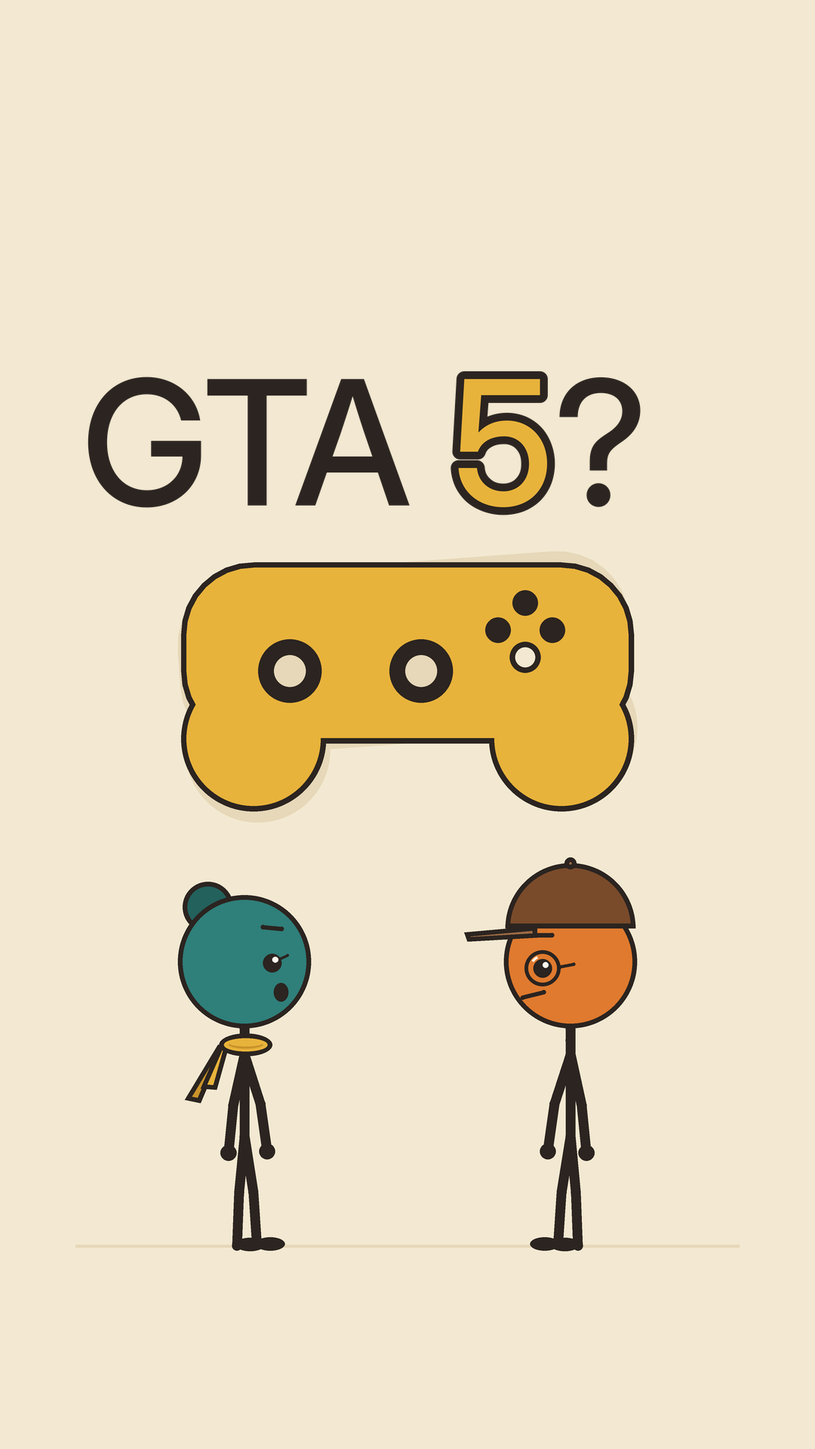
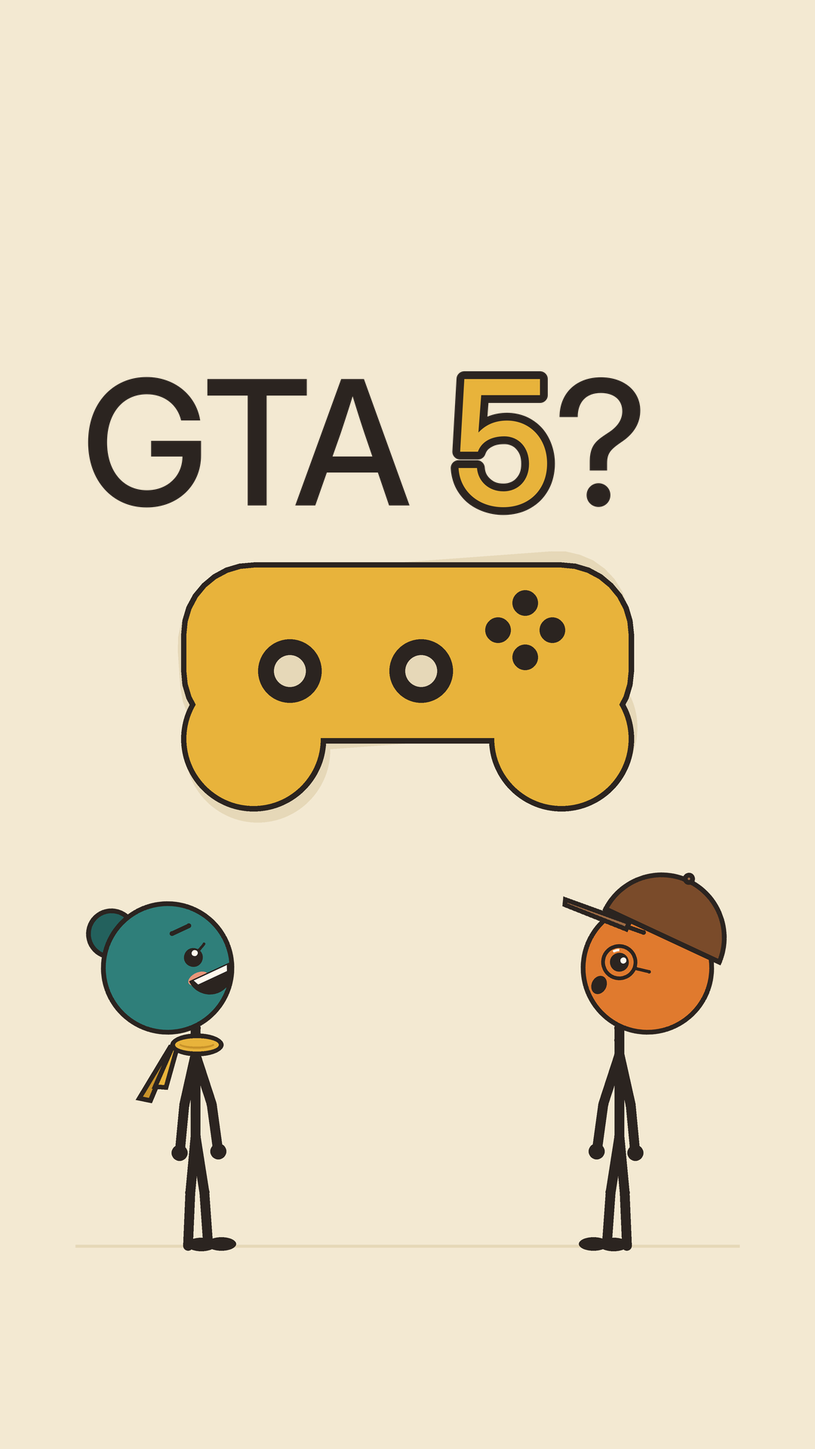
Perfil emocional en la ficha de cada video: plantilla, regla y control en el validador (regla del dueño)
Claude-Session: https://claude.ai/code/session_01518ZoRVZH1wGrNexzG8g5b

Changed region(s): [[0.5806, 0.5938, 0.9167, 0.875], [0.0917, 0.5938, 0.3972, 0.875], [0.6111, 0.4375, 0.6722, 0.4688]]

diff --git a/video-studio/herramientas/palitos.py b/video-studio/herramientas/palitos.py
@@ -25,6 +25,10 @@ Versiones:
                       Nuevo `giro_objeto` (grados; 0 por defecto) para el movimiento secundario del objeto. Gráfico
                       `mando()` (mando genérico, sin logotipos ni símbolos; las dos palancas a la misma altura)
                       y `calendario_de_mano()`.
+    1.3 (2026-11-23)  inclinación de cabeza: `cabeza_giro` en `dibujar` y `giro` en `cabeza` (grados; 0 por defecto, y con 0
+                      todo se dibuja igual que antes). La cabeza gira como un bloque (cara, rodete, gorra, lentes)
+                      alrededor de la base del cuello; la bufanda y el cuerpo no. Sirve para mirar arriba o abajo
+                      (hasta ±25 grados, variación permitida en las fichas). No cambia ningún rasgo.
 """
 import argparse
 import math
@@ -33,7 +37,7 @@ from pathlib import Path
 
 from PIL import Image, ImageDraw, ImageFont
 
-VERSION = "1.2"  # 1.0: diseño aprobado (2026-11-21) · 1.1: espejo · 1.2: objetos de mano por nombre (control, calendario)
+VERSION = "1.3"  # 1.0: diseño aprobado (2026-11-21) · 1.1: espejo · 1.2: objetos de mano · 1.3: inclinación de cabeza
 SS = 3  # supermuestreo: se dibuja 3 veces más grande y se reduce (Pillow no suaviza las líneas)
 
 # ---------------------------------------------------------------- paleta del canal (años 70, papel crema)
@@ -462,8 +466,28 @@ def objeto_de_mano(lz, pl, nombre, mano, pose, giro=0.0):
 
 
 # ---------------------------------------------------------------- cabeza (sirve sola para primeros planos)
-def cabeza(lz, pid, cx, cy, radio, expresion="feliz", vista="frente", mira=1, espejo=False):
-    """Dibuja solo la cabeza con sus accesorios, centrada en (cx, cy) y con ese radio en píxeles."""
+class _Capa:
+    """Lienzo transparente del mismo trato que Lienzo (tiene .d), para dibujar una pieza aparte y girarla."""
+
+    def __init__(self, lado_ss):
+        self.img = Image.new("RGBA", (lado_ss, lado_ss), (0, 0, 0, 0))
+        self.d = ImageDraw.Draw(self.img)
+
+
+def cabeza(lz, pid, cx, cy, radio, expresion="feliz", vista="frente", mira=1, espejo=False, giro=0.0):
+    """Dibuja solo la cabeza con sus accesorios, centrada en (cx, cy) y con ese radio en píxeles.
+
+    giro (grados, 0 por defecto): inclina la cabeza entera (cara, rodete, gorra y lentes, como un bloque) alrededor de
+    la base del cuello, el punto (cx, cy + radio). Positivo = levanta la cara hacia donde mira (en perfil, hacia `mira`;
+    de frente, hacia la derecha del cuadro, o la izquierda con espejo). Con 0 se dibuja exactamente como antes."""
+    if giro:
+        medio = int(math.ceil(3.2 * radio))                     # la capa cubre la cabeza girada con sus accesorios
+        capa = _Capa(2 * medio * SS)
+        cabeza(capa, pid, medio, medio, radio, expresion, vista, mira, espejo, 0.0)
+        sentido = (mira if vista == "perfil" else 1) * (-1 if espejo else 1)
+        girada = capa.img.rotate(giro * sentido, resample=Image.BICUBIC, center=(medio * SS, (medio + radio) * SS))
+        lz.img.paste(girada, (int(round((cx - medio) * SS)), int(round((cy - medio) * SS))), girada)
+        return
     pj = PERSONAJES[pid]
     pc = Pluma(lz, cx, cy, radio, espejo)
     if "rodete" in pj["accesorios"]:
@@ -477,7 +501,7 @@ def cabeza(lz, pid, cx, cy, radio, expresion="feliz", vista="frente", mira=1, es
 
 # ---------------------------------------------------------------- personaje completo
 def dibujar(lz, pid, x, suelo, alto, pose="parado", expresion="feliz", vista="frente", mira=1, viento=0.0,
-            objeto=True, espejo=False, giro_objeto=0.0):
+            objeto=True, espejo=False, giro_objeto=0.0, cabeza_giro=0.0):
     """Dibuja a Tin o Tan con los pies en (x, suelo) y una altura total de `alto` píxeles.
 
     mira: 1 mira a la derecha, -1 a la izquierda (solo en perfil). viento: puntas de la bufanda (-1 a 1).
@@ -487,6 +511,8 @@ def dibujar(lz, pid, x, suelo, alto, pose="parado", expresion="feliz", vista="fr
     objeto: True = el objeto icónico del personaje (el lápiz de Tin; Tan no tiene); False o None = ninguno; o el
     nombre de un objeto de mano ("lapiz", "control", "calendario"), que vale para los dos personajes.
     giro_objeto: grados que se suman al ángulo del objeto (movimiento secundario).
+    cabeza_giro: inclinación de la cabeza en grados (hasta ±25: variación permitida en las fichas); positivo = levanta
+    la cara para mirar hacia arriba. La bufanda y el cuerpo no giran. Con 0, todo igual que siempre.
     """
     if pid not in PERSONAJES:
         sys.exit(f"Personaje desconocido: {pid}. Hay: {', '.join(PERSONAJES)}")
@@ -531,7 +557,7 @@ def dibujar(lz, pid, x, suelo, alto, pose="parado", expresion="feliz", vista="fr
 
     if "bufanda" in pj["accesorios"]:
         bufanda(pl, vista, s, cuello_base[1] - 0.05, viento)
-    cabeza(lz, pid, x, suelo + cabeza_y * R, R, expresion, vista, s, espejo)
+    cabeza(lz, pid, x, suelo + cabeza_y * R, R, expresion, vista, s, espejo, cabeza_giro)
 
     # objeto icónico en la mano derecha (vista de frente) o en la de adelante (perfil)
     nombre = pj["objeto"] if objeto is True else (objeto if isinstance(objeto, str) else None)

diff --git a/video-studio/proyectos/2026-11-21_tin_y_tan_gta6/codigo/render.py b/video-studio/proyectos/2026-11-21_tin_y_tan_gta6/codigo/render.py
@@ -370,9 +370,11 @@ def mando_grande(lz, t):
         return 5 * math.sin(4 * math.pi * tt)
     for atras in (0.08, 0.04):
         palitos.mando(lz, cx, cy, ancho, ang(t - atras), relleno="papel_sombra", tinta="papel_sombra", detalles=False)
-    # el latido se cuenta en fotogramas (6 de cada 15) para que no dependa del redondeo de t
+    # el latido se cuenta en fotogramas (6 de cada 15) para que no dependa del redondeo de t. Va en la segunda mitad
+    # del pulso (fotogramas 8 a 13: 0,27 a 0,47 s): en el fotograma 0, que es la portada, los cuatro botones se ven
+    # iguales, y el fotograma 855 (= 0) también.
     f = int(round(t * FPS))
-    palitos.mando(lz, cx, cy, ancho, ang(t), boton_pulsado=(f % 15) < 6)
+    palitos.mando(lz, cx, cy, ancho, ang(t), boton_pulsado=8 <= (f % 15) < 14)
     return cx, cy
 
 
@@ -481,22 +483,26 @@ HOJA_G = dict(cx=0.5 * W, y_top=0.28 * H, ancho=0.80 * W, alto=1000)       # hoj
 HOJA_Z = dict(cx=0.5 * W, y_top=ZONA_G0, ancho=800, alto=0.485 * H - ZONA_G0 - 28)
 
 
-ALTO_PORTADA = 487.0      # R = 88 px: caras de y 1135 a 1362, dentro de la zona útil de portada (y 380-1440)
+ALTO_PORTADA = 487.0      # R = 88 px: caras dentro de la zona útil de portada (y 380-1440)
+X_PORTADA = (0.24 * W, 0.76 * W)     # más separados que en el resto del video (30 % y 70 %): la mirada sube en diagonal
+GIRO_PORTADA = 25.0       # grados
 
 
 def portada(lz, t):
     """Tomas 1 y 13: el primer segundo ES la portada (ENTREGA_YOUTUBE.md, «Portada de los Shorts»). Texto «GTA 5?» entre
     y 400 y 700 (capa de texto), el mando en el centro (y 720-1100) y, debajo, Tan (izquierda) y Tin (derecha) de
-    perfil, mirando hacia el mando, con sorpresa y curiosidad; las caras quedan dentro de la zona útil (x 60-960,
+    perfil y con la cabeza inclinada hacia arriba, mirando el mando, con sorpresa (Tin) y sorpresa alegre (Tan); las caras quedan dentro de la zona útil (x 60-960,
     y 380-1440) y los cuerpos bajan hasta el suelo (y = 1651). Todo está completo en el fotograma 0; se mueve desde ahí
     (el mando retumba y los personajes rebotan al pulso). Sin empuje de cámara: escala 100 % en toda la toma, para que
     las cajas medidas en el fotograma 0 valgan todo el segundo y el último fotograma sea igual al primero."""
     suelo(lz)
     mando_grande(lz, t)
-    palitos.dibujar(lz, "tan", X_TAN, SUELO, ALTO_PORTADA * bote(t), pose="parado", expresion="sorpresa", vista="perfil",
-                    mira=1, viento=0.2 * math.sin(4 * math.pi * t))      # periódico: igual en 0 y en 28,5
-    palitos.dibujar(lz, "tin", X_TIN, SUELO, ALTO_PORTADA * bote(t, 0.5), pose="parado", expresion="curiosidad",
-                    vista="perfil", mira=-1, objeto=False)
+    # cabezas inclinadas 25 grados hacia arriba (el máximo de las fichas): miran al mando, que está encima y al centro
+    palitos.dibujar(lz, "tan", X_PORTADA[0], SUELO, ALTO_PORTADA * bote(t), pose="parado", expresion="eureka",
+                    vista="perfil", mira=1, viento=0.2 * math.sin(4 * math.pi * t),      # periódico: igual en 0 y en 28,5
+                    cabeza_giro=GIRO_PORTADA)
+    palitos.dibujar(lz, "tin", X_PORTADA[1], SUELO, ALTO_PORTADA * bote(t, 0.5), pose="parado", expresion="sorpresa",
+                    vista="perfil", mira=-1, objeto=False, cabeza_giro=GIRO_PORTADA)
     return 1.0, CENTRO
 
 

diff --git a/video-studio/proyectos/2026-11-21_tin_y_tan_gta6/codigo/audio.py b/video-studio/proyectos/2026-11-21_tin_y_tan_gta6/codigo/audio.py
@@ -42,7 +42,7 @@ C_4745, C_4748, C_63, C_4811 = (11.15, 12.9), (15.6, 18.0), (17.75, 18.8), (21.4
 
 # ---------------------------------------------------------------- golpes de la sección 13: (segundo, sonido, a qué va atado)
 EVENTOS = [(0.0, "thunk", "arranque, toma 1 (y empalme del bucle)"), (0.0, "zumbido", "vibración del mando, toma 1")]
-EVENTOS += [(0.5, "boton", "latido del botón, toma 1")]
+EVENTOS += [(t, "boton", "latido del botón, toma 1 (segunda mitad del pulso)") for t in (8 / 30, 23 / 30)]
 EVENTOS += [(t, "clic_borron", f"corte con borrón en {t}") for t in (1.0, 2.0, 9.0, 17.5, 25.5, 27.5)]
 EVENTOS += [(t, "clic", f"corte seco en {t}") for t in (5.0, 15.0, 21.0, 23.5)]
 EVENTOS += [(3.8, "hoja", "vuelta de hoja, toma 3")]
@@ -62,7 +62,7 @@ EVENTOS += [(LLEGA_4811, "ding", "llegada a 4,811 (primer fotograma con el valor
 EVENTOS += [(6.6, "pop", "la fecha entra en la hoja, toma 4")]
 EVENTOS += [(t, "pop_grave", "latido del bloque 13, toma 12") for t in (26.0, 26.5, 27.0)]
 EVENTOS += [(27.5, "whoosh", "vuelve el plano de la portada, toma 13 (27,5 a 28,3)")]
-EVENTOS += [(t, "boton", "latido del botón, toma 13") for t in (27.5, 28.0)]
+EVENTOS += [(t, "boton", "latido del botón, toma 13 (segunda mitad del pulso)") for t in (27.5 + 8 / 30, 28.0 + 8 / 30)]
 # El thunk de 28,5 es el del segundo 0,0 de la vuelta siguiente: el video dura 28,5 s justos y no se duplica.
 EVENTOS.sort(key=lambda e: e[0])
 

diff --git a/video-studio/herramientas/validar_prompt.py b/video-studio/herramientas/validar_prompt.py
@@ -135,6 +135,15 @@ def main():
     texto = re.sub(r"<!--.*?-->", "", crudo, flags=re.S)
     errores, avisos = [], []
 
+    # Perfil emocional (regla del dueño, 2026-11-23): va en la ficha de cada video.
+    perfil = ruta.parent / "perfil_emocional.md"
+    if not perfil.exists():
+        avisos.append("Falta 02_prompt/perfil_emocional.md (emoción buscada con cada elemento y cómo acerca al "
+                      "objetivo). Plantilla: plantillas/proyecto/02_prompt/perfil_emocional.md.")
+    else:
+        cuerpo = re.sub(r"<!--.*?-->", "", perfil.read_text(encoding="utf8"), flags=re.S)
+        if re.search(r"\[[^\]\n]*\]", cuerpo):
+            errores.append("perfil_emocional.md tiene campos sin llenar (corchetes).")
     if re.search(r"\[[^\]\n]*\]", re.sub(r"\[[ xX]\]", "", texto)):
         pendientes = sorted(set(re.findall(r"\[[^\]\n]*\]", texto)))[:5]
         errores.append("Quedan campos de plantilla sin llenar: " + ", ".join(pendientes))

diff --git a/video-studio/proyectos/2026-11-21_tin_y_tan_gta6/02_prompt/prompt.md b/video-studio/proyectos/2026-11-21_tin_y_tan_gta6/02_prompt/prompt.md
@@ -32,7 +32,7 @@ Los tiempos son del video final y de la voz real (05_audio/linea_de_tiempo_voz.m
 | @tan | Abre el video con la pregunta nostálgica y con el mando en la mano; reacciona a cada dato (una reacción por dato), pregunta cuánto fue la espera y dice «Wow, that long?». Lado izquierdo del cuadro con `espejo=True` (en el centro cuando está sola). | base de su ficha (rodete y bufanda mostaza); objeto de mano `control` en la toma 2 | personajes/tan/referencias/principal_tin_y_tan.png |
 | @tin | Hace la cuenta paso a paso y da el remate. Lado derecho del cuadro, sin espejo; su lápiz en la toma 4 (el motivo del canal), objeto de mano `calendario` en la toma 12 y la mano vacía en la toma 10. | base de su ficha (gorra marrón, lentes, lápiz) | personajes/tin/referencias/principal_tin_y_tan.png |
 
-No se sube nada a un generador: las referencias son las del diseño en código (`herramientas/palitos.py`, versión 1.2) y se usan solo para comparar el resultado. Los objetos de mano `control` y `calendario` son las variaciones aprobadas en las fichas el 2026-11-21 («Objetos de mano por video») y **ya están dibujados** en `palitos.py` 1.2 (sección 14).
+No se sube nada a un generador: las referencias son las del diseño en código (`herramientas/palitos.py`, versión 1.3) y se usan solo para comparar el resultado. Los objetos de mano `control` y `calendario` son las variaciones aprobadas en las fichas el 2026-11-21 («Objetos de mano por video») y **ya están dibujados** en `palitos.py` 1.2 (sección 14).
 
 Poses y expresiones usadas (todas existen en `POSES` y `EXPRESIONES` de `palitos.py`, comprobado el 2026-11-21): poses `parado`, `saluda`, `senala`, `piensa`, `celebra`, `encoge`, `explica`, `pregunta`; expresiones `feliz`, `nostalgia`, `curiosidad`, `pensando`, `concentrado`, `sorpresa`, `risa`, `eureka`. No se inventa ningún rasgo.
 
@@ -72,7 +72,7 @@ text inside the drawing other than the table in section 12, brand names or logos
 - **calendario en la mano (`calendario`):** hoja de 0,9 R × 1,0 R con cabecera marrón `#7A4B2A` de 0,22 de alto, dos anillas y el número «17» en tinta (fila de la tabla de la sección 12); sustituye al lápiz en la mano que gesticula.
 - **tira de 13 años (gráfico propio):** 13 bloques rectangulares de 60 px de ancho y 200 px de alto, separados 8 px, de x = 100 a 980 px, centrados en y = 39 % (de 33,8 % a 44,2 %); relleno papel sombra `#E6D8B8` al empezar y marrón `#7A4B2A` al llenarse, contorno tinta de 8 px; el bloque 13 es el elemento mostaza `#E8B33B` de las tomas 5 y 6 (marrón en las tomas 7 y 8) y pasa a tomate `#C8553D` solo en la toma 12. Los años bisiestos son los bloques 3, 7 y 11 (años de sept. 2015 a sept. 2016, de 2019 a 2020 y de 2023 a 2024: el 29 de febrero de 2016, 2020 y 2024 cae en cada uno). Marca bisiesta: círculo **mostaza** `#E8B33B` con contorno tinta de 4 px, de radio 18 px (36 px de diámetro) centrado 40 px sobre el bloque. Sin letras.
 - **Muelles (masa 1, rigidez, amortiguación), declarados por elemento:** `pop` 220 y 20 (entrada de textos y gráficos, escala de 0,85 a 1); `slide` 120 y 16 (personajes y gráficos que se desplazan); `sello` 320 y 26 (empujes de cámara y vueltas de hoja). Contadores: ease-out cúbico sin muelle, para que el valor nunca pase de su final ni retroceda. Todo depende del número de fotograma (30 fps).
-- **mando del gancho y portada (tomas 1 y 13):** el primer segundo del video **es la portada** (`ENTREGA_YOUTUBE.md`, «Portada de los Shorts»). El mando de W = 600 px, centro en (50 %, y = 910 px): ocupa x 239–840 e y 744–1075 en el fotograma 0, dentro de la franja y 720–1100 que la regla pide para el objeto (fue de 864 y de 800 px; se redujo para dejar sitio a las caras). Sin etiquetas. «Retumba»: se balancea ±5 grados con un periodo de 0,5 s, ángulo = 5 × seno(4 pi t) grados (28,5 s son 57 periodos exactos, por eso el último fotograma es igual al primero). Estela plana: dos copias del mando en `#E6D8B8` detrás, a los ángulos de t menos 0,04 s y t menos 0,08 s. El botón de abajo late en cada pulso (pasa a papel durante 0,2 s; nunca a tomate). Debajo, Tan (x = 30 %) y Tin (x = 70 %) de cuerpo entero y **de perfil, mirando hacia el mando**, `alto` 487 px (R = 88 px), pies a 86 %: las caras quedan en y 1142–1356, dentro de la zona útil de portada (x 60–960, y 380–1440). Sin empuje de cámara (escala 100 % en toda la toma).
+- **mando del gancho y portada (tomas 1 y 13):** el primer segundo del video **es la portada** (`ENTREGA_YOUTUBE.md`, «Portada de los Shorts»). El mando de W = 600 px, centro en (50 %, y = 910 px): ocupa x 239–840 e y 744–1075 en el fotograma 0, dentro de la franja y 720–1100 que la regla pide para el objeto (fue de 864 y de 800 px; se redujo para dejar sitio a las caras). Sin etiquetas. «Retumba»: se balancea ±5 grados con un periodo de 0,5 s, ángulo = 5 × seno(4 pi t) grados (28,5 s son 57 periodos exactos, por eso el último fotograma es igual al primero). Estela plana: dos copias del mando en `#E6D8B8` detrás, a los ángulos de t menos 0,04 s y t menos 0,08 s. El botón de abajo late en cada pulso (pasa a papel durante 0,2 s; nunca a tomate). Debajo, Tan (x = 24 %) y Tin (x = 76 %) de cuerpo entero, **de perfil y con la cabeza inclinada 25 grados hacia arriba (`cabeza_giro=25`, `palitos.py` 1.3), mirando el mando**, `alto` 487 px (R = 88 px), pies a 86 %: las caras quedan en x 121–303 y x 752–955, y 1163–1364, dentro de la zona útil de portada (x 60–960, y 380–1440). El botón que late lo hace en la segunda mitad de cada pulso (de 0,27 a 0,47 s): en el fotograma 0 los cuatro botones se ven iguales. Sin empuje de cámara (escala 100 % en toda la toma).
 - **Transición `borrón`:** corte seco con desenfoque de movimiento horizontal de 18 px en los 2 últimos fotogramas de la toma que sale y en los 2 primeros de la que entra. Cero destellos.
 
 ## 6. Tomas
@@ -91,7 +91,7 @@ Cada corte cae en el pulso anterior al inicio de la línea (o del tramo) que le 
 - **Escenario:** papel_crema
 - **Encuadre:** la portada: «GTA 5?» arriba (y 400–700), el mando en el centro (y 720–1100) y Tan y Tin debajo, de perfil, mirando el mando (sección 5)
 - **Cámara:** fija, escala 100 % (sin empuje: las medidas de la portada valen todo el segundo y nada sale de la zona segura)
-- **Acción:** el mando ya está retumbando en el fotograma 0 (con su estela) y el botón de abajo late en 0,0 y 0,5; Tan y Tin, completos desde el fotograma 0, lo miran y rebotan al pulso.
+- **Acción:** el mando ya está retumbando en el fotograma 0 (con su estela) y el botón de abajo late en 0,27 y 0,77; Tan y Tin, completos desde el fotograma 0, lo miran con la cabeza levantada y rebotan al pulso.
 - **Audio:** línea 1, Tan (primera parte): "Remember buying G T A five at midnight?" Aquí suena el principio de la línea (la línea entera va de 0,00 a 1,93 s; el corte de 1,0 cae dentro de ella, hacia «G T A»; sin escucha no se sabe en qué sílaba). Golpe 1 de la sección 13.
 - **Referencia:** toma 1 del short 1 (objeto a pantalla completa, ya en movimiento)
 - **Transición de entrada:** ninguna (primer fotograma; es también el último del bucle). Salida: `borrón` hacia la toma 2.
@@ -101,7 +101,7 @@ Cada corte cae en el pulso anterior al inicio de la línea (o del tramo) que le 
 - Mando y personajes exactamente como los define la sección 5, con el ángulo de t = 0 (cero grados) y las dos copias de estela. **Sin muelle de entrada ni escala 0,85 en el fotograma 0**: todo está ya en su estado pleno y en movimiento (este fotograma es la portada y el empalme del bucle).
 - Texto «GTA 5?» (fila 1 de la tabla de la sección 12) ya entero y quieto en el fotograma 0 (sin `pop`); sale a los 0,9 s. **El primer segundo es la portada** (regla del dueño): el texto va al 12 % del alto, con el tope de las letras en y = 26 % (medido: x 116–848, y 492–682; franja pedida y 400–700, zona útil y 380–1440), a 97 px o más del mando en todo el balanceo.
 - **Color:** acento mostaza = el «5» de «GTA 5?» + el mando; el botón que late pasa a papel, no a tomate. Cabezas, gorra y bufanda son identidad, no acento.
-- Tan: pose `parado`, expresión `sorpresa`, vista `perfil`, `mira=1` (hacia el centro), x = 30 %, pies a 86 %, `alto` 487 px. Tin: pose `parado`, expresión `curiosidad`, vista `perfil`, `mira=-1`, x = 70 %, `objeto=False`. Con suelo. Medido en el fotograma 0: texto x 116–848, y 492–682; mando x 239–840, y 744–1075; cara de Tan x 242–405, y 1175–1355; cara de Tin x 624–837, y 1142–1356.
+- Tan: pose `parado`, expresión `eureka` (sorpresa alegre: en perfil `sorpresa` se le leía seria por la ceja), vista `perfil`, `mira=1` (hacia el centro), `cabeza_giro=25`, x = 24 %, pies a 86 %, `alto` 487 px. Tin: pose `parado`, expresión `sorpresa` (en perfil `curiosidad` dejaba una raya rara en la boca), vista `perfil`, `mira=-1`, `cabeza_giro=25`, x = 76 %, `objeto=False`. Con suelo. Medido en el fotograma 0: texto x 116–848, y 492–682; mando x 239–840, y 744–1075; cara de Tan x 121–303, y 1201–1364; cara de Tin x 752–955, y 1163–1364.
 
 ### Toma 2 — Tan recuerda, mando en mano
 
@@ -401,7 +401,7 @@ Los cortes de cada pieza en líneas se hacen por las pausas medidas, como en el 
 - **Orden:** Toma 1 → Toma 2 → Toma 3 → Toma 4 → Toma 5 → Toma 6 → Toma 7 → Toma 8 → Toma 9 → Toma 10 → Toma 11 → Toma 12 → Toma 13 (y vuelve a la toma 1). Las tomas 1 y 13 son el mismo plano.
 - **Transiciones:** corte seco; entre planos de objeto o de cámara distinta, el `borrón` de la sección 5 (1→2, 2→3, 4→5, 8→9, 11→12 y 12→13, como dicen las tomas). Sin destellos, sin fundidos.
 - **Texto en pantalla:** se dibuja en el mismo render, solo el de la tabla de la sección 12. El texto nunca contradice lo que se oye.
-- **Portada:** el fotograma 0, que cumple los 6 puntos de la regla del dueño (`ENTREGA_YOUTUBE.md`, «Portada de los Shorts»): «GTA 5?» (2 palabras, letra de 230 px, clave en mostaza, sin la respuesta) entre y 400 y 700, el mando en el centro (y 720–1100) y las caras de Tan y Tin dentro de la zona útil (x 60–960, y 380–1440), con sorpresa y curiosidad, mirando el mando. `codigo/miniatura.py` guarda ese fotograma como `06_final/portada_short02.png` (1080x1920) y mide las cajas. Alternativa solo para probar aparte: el fotograma de 23,0 s (el «4,811 days» en tomate), que adelanta la respuesta.
+- **Portada:** el fotograma 0, que cumple los 6 puntos de la regla del dueño (`ENTREGA_YOUTUBE.md`, «Portada de los Shorts»): «GTA 5?» (2 palabras, letra de 230 px, clave en mostaza, sin la respuesta) entre y 400 y 700, el mando en el centro (y 720–1100) y las caras de Tan y Tin dentro de la zona útil (x 60–960, y 380–1440), con sorpresa, de perfil y con la cabeza inclinada 25 grados hacia arriba, mirando el mando. `codigo/miniatura.py` guarda ese fotograma como `06_final/portada_short02.png` (1080x1920) y mide las cajas. Alternativa solo para probar aparte: el fotograma de 23,0 s (el «4,811 days» en tomate), que adelanta la respuesta.
 - **Formato de salida:** 1080x1920, 30 fps, H.264, yuv420p, AAC a 48 kHz. Archivo `06_final/tin_y_tan_short02_v1.mp4`.
 - **Título de la publicación (inglés):** How Many Days Did We Wait for GTA 6?
 - **Descripción de la publicación (en inglés, obligatoria; sin llamado a la acción):**
@@ -592,12 +592,12 @@ En un short, todo texto queda dentro de la zona segura de `formatos.md`. Entrada
 
 ## 13. Sonido
 
-Los golpes bajo la voz van a unos **−26 LUFS** (−12 dB respecto a la voz, que está a −14 LUFS; lección de la revisión del short 1: a −38 LUFS no se oían en un teléfono). Se comprueba al oído. Medido en `05_audio/medidas_audio.json` (2026-11-21): golpes bajo la voz −26,0 LUFS; golpes sin voz encima (arranque y cierre) con pico de −6 dBFS; música −24,0 LUFS; mezcla final −14,0 LUFS con pico real de −1,3 dBTP (con limitador); los 48 golpes empiezan en su tiempo (±12 ms).
+Los golpes bajo la voz van a unos **−26 LUFS** (−12 dB respecto a la voz, que está a −14 LUFS; lección de la revisión del short 1: a −38 LUFS no se oían en un teléfono). Se comprueba al oído. Medido en `05_audio/medidas_audio.json` (2026-11-21): golpes bajo la voz −26,0 LUFS; golpes sin voz encima (arranque y cierre) con pico de −6 dBFS; música −24,0 LUFS; mezcla final −14,0 LUFS con pico real de −1,3 dBTP (con limitador); los 49 golpes empiezan en su tiempo (±12 ms).
 
 | Golpe o efecto | Segundo | A qué corte va atado | Origen y licencia |
 |---|---|---|---|
 | Golpe seco grave de 80 ms y zumbido corto de vibración del mando | 0,0 | arranque, toma 1 (es también el empalme del bucle: no se duplica) | código, propio (ver licencias.md) |
-| Clic de botón, uno por pulso | 0,5 | latido del botón de la toma 1 | código, propio |
+| Clic de botón, uno por pulso | 0,27 / 0,77 | latidos del botón de la toma 1 (segunda mitad del pulso) | código, propio |
 | Clic suave de borrón | 1,0 | corte de toma 1 a toma 2 | código, propio |
 | Clic suave de borrón | 2,0 | corte de toma 2 a toma 3 | código, propio |
 | Papel que pasa de hoja (tic corto) | 3,8 | vuelta de hoja de la toma 3 | código, propio |
@@ -620,7 +620,7 @@ Los golpes bajo la voz van a unos **−26 LUFS** (−12 dB respecto a la voz, qu
 | Pop del bloque 13 (pasa a tomate) (3) | 26,0 / 26,5 / 27,0 | latidos de la toma 12 | código, propio |
 | Clic suave de borrón | 27,5 | corte de toma 12 a toma 13 | código, propio |
 | Whoosh suave | 27,5–28,3 | vuelve el plano de la portada, toma 13 | código, propio |
-| Clic de botón, uno por pulso | 27,5 / 28,0 | latidos del botón de la toma 13 | código, propio |
+| Clic de botón, uno por pulso | 27,77 / 28,27 | latidos del botón de la toma 13 | código, propio |
 | Thunk grave idéntico al del segundo 0,0 (cierra el bucle; el del 0,0 lo continúa) | 28,5 | bucle: es el del segundo 0,0 de la vuelta siguiente (el archivo dura 28,5 s justos y no lo duplica) | código, propio |
 
 - **Música:** hecha con código a −24 LUFS (ver sección 7); sin material de terceros ni del juego.
@@ -629,7 +629,7 @@ Los golpes bajo la voz van a unos **−26 LUFS** (−12 dB respecto a la voz, qu
 ## 14. Motor y revisión
 
 - **Cómo se hace:** gráficos por código (fotograma a fotograma): Python, Pillow y ffmpeg. Cada fotograma se dibuja en un `Lienzo(1080, 1920)` de `palitos.py`, que ya dibuja al triple de tamaño y reduce con LANCZOS (supermuestreo). Los empujes de cámara recortan el lienzo grande y reducen. Todo depende del número de fotograma, no del reloj. Se guardan PNG numerados y ffmpeg los une con la voz y los efectos (`postpro.py mezclar` o ffmpeg directo). Personajes con `palitos.dibujar(lz, id, x, suelo, alto, pose, expresion, vista, mira, viento, objeto, espejo)`.
-- **Qué se añadió a `palitos.py` (versión 1.1 → 1.2) para renderizar (hecho el 2026-11-21: los puntos 1 a 3 están en `palitos.py`; los gráficos 4 y 5 quedaron en `codigo/render.py` del proyecto, como `hoja_calendario` y `tira_13`; los glifos del punto 6 se comprueban al arrancar el render):**
+- **Qué se añadió a `palitos.py` (versión 1.1 → 1.2, y 1.3 con la inclinación de cabeza `cabeza_giro` para la portada) para renderizar (hecho el 2026-11-21: los puntos 1 a 3 están en `palitos.py`; los gráficos 4 y 5 quedaron en `codigo/render.py` del proyecto, como `hoja_calendario` y `tira_13`; los glifos del punto 6 se comprueban al arrancar el render):**
   1. `objeto="control"`: hoy `objeto` solo conoce el lápiz y se usa como verdadero o falso. Hay que aceptar un nombre de objeto (`"lapiz"`, `"control"`, `"calendario"`; `True` sigue significando el objeto icónico del personaje y `False` ningún objeto) y dibujar el `control` en la mano que gesticula, con las medidas de la sección 5 (1,1 R × 0,6 R, dos palancas, cuatro botones de punto, mostaza con contorno tinta, sin ningún elemento tomate; también para Tan, que no tiene objeto icónico).
   2. `objeto="calendario"`: hoja de 0,9 R × 1,0 R con cabecera marrón `#7A4B2A` (0,22; sin tomate), dos anillas y el número «17» en tinta, con la misma regla de ángulo que el lápiz para las poses `saluda`, `celebra` y `pregunta`.
   3. Gráfico `mando(lz, cx, cy, ancho, angulo, boton_pulsado, estela)` para el mando a pantalla completa (sección 5); el botón pulsado pasa a papel, no a tomate.

diff --git a/video-studio/plantillas/proyecto/02_prompt/perfil_emocional.md b/video-studio/plantillas/proyecto/02_prompt/perfil_emocional.md
@@ -1,0 +1,58 @@
+# Perfil emocional — [TÍTULO]
+
+<!--
+Regla del dueño (2026-11-23). Va en la ficha de cada video o contenido: por cada elemento, qué emoción buscamos
+provocar y cómo esa emoción nos acerca al objetivo. Lo escribe el director creativo (en series infantiles, la
+psicóloga infantil decide las filas que tocan al niño) con lo que aporten fotografía, animación, sonido y edición.
+Reglas para llenarlo:
+- «Qué hacemos» es algo que se puede medir o señalar en el video (hex, segundos, velocidad, nivel), no un adjetivo.
+- Cada emoción lleva su fundamento: fuente con fecha, capítulo del manual, dato propio del canal, o «hipótesis».
+- Cada fila termina en una métrica que dirá si funcionó. Sin métrica no hay fila.
+- El dueño acompaña justo esta parte (ideas y psicología): las dudas emocionales se le llevan a él.
+Los textos entre corchetes se reemplazan; validar_prompt.py no deja pasar corchetes sin llenar.
+-->
+
+- **Objetivo comercial del brief:** [el que fijó el dueño]
+- **Público:** [quién, dónde, edad]
+- **Qué queremos que haga al terminar:** [una sola acción principal]
+- **Arco emocional:** [segundo 1 → mitad → final]
+
+## Emoción buscada, elemento por elemento
+
+| Elemento | Qué hacemos (medible) | Emoción que busca provocar | Fundamento | Cómo nos acerca al objetivo | Métrica que lo dirá | Riesgo si se pasa de la raya |
+|---|---|---|---|---|---|---|
+| Contenido (tema e idea) | [ ] | [ ] | [ ] | [ ] | [ ] | [ ] |
+| Gancho (primer segundo y portada) | [ ] | [ ] | [ ] | [ ] | [ ] | [ ] |
+| Estructura y giro | [ ] | [ ] | [ ] | [ ] | [ ] | [ ] |
+| Personajes y actuación | [ ] | [ ] | [ ] | [ ] | [ ] | [ ] |
+| Perfil de colores | [ ] | [ ] | [ ] | [ ] | [ ] | [ ] |
+| Animaciones y movimiento | [ ] | [ ] | [ ] | [ ] | [ ] | [ ] |
+| Efectos de luz | [ ] | [ ] | [ ] | [ ] | [ ] | [ ] |
+| Velocidad del video (ritmo de cortes) | [ ] | [ ] | [ ] | [ ] | [ ] | [ ] |
+| Velocidad del audio (voz) | [ ] | [ ] | [ ] | [ ] | [ ] | [ ] |
+| Voces (timbre y trato) | [ ] | [ ] | [ ] | [ ] | [ ] | [ ] |
+| Música | [ ] | [ ] | [ ] | [ ] | [ ] | [ ] |
+| Efectos de sonido | [ ] | [ ] | [ ] | [ ] | [ ] | [ ] |
+| Texto en pantalla y tipografía | [ ] | [ ] | [ ] | [ ] | [ ] | [ ] |
+| Cierre y bucle | [ ] | [ ] | [ ] | [ ] | [ ] | [ ] |
+| Título y descripción | [ ] | [ ] | [ ] | [ ] | [ ] | [ ] |
+
+## Emociones que NO queremos provocar
+
+- [emoción, por qué la evitamos y dónde hay riesgo de que aparezca]
+
+## Para la ficha de entrega (`ficha.json`, campo `emociones`)
+
+```text
+[objetivo, arco, y una línea por elemento: «elemento: emoción → cómo ayuda → métrica»]
+```
+
+## Preguntas para el dueño
+
+- [lo emocional o psicológico que el equipo no debe decidir solo]
+
+## Después de publicar
+
+| Métrica | Meta | Resultado a 7 días | Resultado a 28 días | Qué elemento se ajusta |
+|---|---|---|---|---|
+| [ ] | [ ] | [ ] | [ ] | [ ] |

diff --git a/video-studio/REGLAS_CEREBRO.md b/video-studio/REGLAS_CEREBRO.md
@@ -116,3 +116,12 @@
   y eso volverlo instrucción y filtro; esto también debe quedar en la ficha». Estudio: `comercial/titulos.md` (del
   comercial). Filtro: `herramientas/revisar_titulo.py`, 0 errores. Ficha: bloque «Título (ficha)» en la publicación
   y objeto `titulo_ficha` en `ficha.json`.
+
+- **Perfil emocional en la ficha (dueño, 2026-11-23):** textual: «Necesito que en la ficha del video o del contenido
+  incorpores, bajo perfil de colores, animaciones, efectos de luz, velocidad del video, velocidad del audio, contenido
+  del video y alguna otra cosa que consideres pertinente, qué emociones buscas provocar tanto con el contenido como
+  con los elementos del contenido generado y cómo estas emociones nos van a acercar a los objetivos». Plantilla:
+  `plantillas/proyecto/02_prompt/perfil_emocional.md` (15 elementos, cada uno con emoción, fundamento, objetivo,
+  métrica y riesgo). Va también en `ficha.json`, campo `emociones`. `validar_prompt.py` no deja pasar uno sin llenar.
+- **Oído del estudio (dueño, 2026-11-23):** «busca para que puedas auditar el tema de voz y audio».
+  `herramientas/revisar_voz.py` transcribe y compara con el guion (Whisper sin conexión, `instalar_oido.sh`).

diff --git a/.claude/agents/director-creativo.md b/.claude/agents/director-creativo.md
@@ -81,3 +81,14 @@ con `controles.md` completo en PASA.
 Validas la sección 3b «Color con intención» de la dirección: que el acento esté donde trabaja el objetivo (la
 palabra clave, el llamado a la acción o el objeto del gancho) y que la métrica con la que se verá sea la del KPI.
 Copias la decisión al campo `color` de `ficha.json` (`entrega.py` lo exige). Manual: `manual/13_color_con_intencion.md`.
+
+
+## Perfil emocional (regla del dueño, 2026-11-23)
+
+Cada video lleva `02_prompt/perfil_emocional.md` (plantilla en `video-studio/plantillas/proyecto/02_prompt/`). Lo
+escribes tú, con lo que aporten fotografía, animación, sonido y edición; en series infantiles, las filas que tocan
+al niño las decide la `psicologa-infantil`. Por cada elemento: qué hacemos (medible), qué emoción busca, su
+fundamento (fuente con fecha, capítulo del manual, dato del canal o «hipótesis»), cómo acerca al objetivo comercial
+del brief, con qué métrica se verá y qué pasa si se exagera. No se inventan estudios ni porcentajes. Las dudas
+emocionales o psicológicas se le llevan al dueño: es justo la parte que él acompaña. Tras publicar, se llena la
+tabla de resultados y se dice qué elemento se ajusta.

diff --git a/video-studio/personajes/tan/ficha.md b/video-studio/personajes/tan/ficha.md
@@ -60,6 +60,10 @@ en un plano de los dos se dibujan con el mismo `alto`.
   redondeadas, relleno mostaza, dos palancas **a la misma altura** y cuatro botones de punto tinta; **sin logotipos ni la forma exacta de
   ningún mando comercial**) y `calendario` (hoja de 0,9 R × 1,0 R, cabecera tomate, número en tinta).
   **Dibujados en `palitos.py` 1.2** (2026-11-21; `objeto="control"`, `objeto="calendario"`). El calendario se dibujó con cabecera **marrón**, como pide el prompt del short 2 (aquí arriba dice tomate: falta que el dueño o el director creativo digan cuál vale).
+- **Variaciones permitidas: inclinación de cabeza para mirar arriba o abajo, hasta ±25°** (añadido el 2026-11-23,
+  `palitos.py` 1.3: `cabeza_giro` en `dibujar`). La cabeza gira como un bloque (cara, rodete) alrededor de la
+  base del cuello; el cuerpo y la bufanda no. No cambia ningún rasgo; con 0 se dibuja igual que siempre. Primer uso: la portada
+  del short 2 (los dos miran el mando, 25°).
 - **Lo que no es variación:** el vestuario no cambia por la temática del video. Nada de disfraces de personajes de
   terceros ni ropa que imite la de un juego, película o marca.
 

diff --git a/video-studio/personajes/tin/ficha.md b/video-studio/personajes/tin/ficha.md
@@ -65,6 +65,10 @@ en un plano de los dos se dibujan con el mismo `alto`.
   redondeadas, relleno mostaza, dos palancas **a la misma altura** y cuatro botones de punto tinta; **sin logotipos ni la forma exacta de
   ningún mando comercial**) y `calendario` (hoja de 0,9 R × 1,0 R, cabecera tomate, número en tinta).
   **Dibujados en `palitos.py` 1.2** (2026-11-21; `objeto="control"`, `objeto="calendario"`). El calendario se dibujó con cabecera **marrón**, como pide el prompt del short 2 (aquí arriba dice tomate: falta que el dueño o el director creativo digan cuál vale).
+- **Variaciones permitidas: inclinación de cabeza para mirar arriba o abajo, hasta ±25°** (añadido el 2026-11-23,
+  `palitos.py` 1.3: `cabeza_giro` en `dibujar`). La cabeza gira como un bloque (cara, gorra y lentes) alrededor de la
+  base del cuello; el cuerpo no. No cambia ningún rasgo; con 0 se dibuja igual que siempre. Primer uso: la portada
+  del short 2 (los dos miran el mando, 25°).
 - **Lo que no es variación:** el vestuario no cambia por la temática del video. Nada de disfraces de personajes de
   terceros ni ropa que imite la de un juego, película o marca.
 

diff --git a/CLAUDE.md b/CLAUDE.md
@@ -71,6 +71,10 @@ exclusivamente los prompts y fichas».
 - Títulos (regla del dueño, 2026-11-21): se escriben con la instrucción de `video-studio/comercial/titulos.md`
   (estudio por público, con fuentes) y pasan `video-studio/herramientas/revisar_titulo.py` con 0 errores; el bloque
   «Título (ficha)» va en la ficha de publicación y en `ficha.json`. El comercial mantiene el estudio.
+- Perfil emocional (regla del dueño, 2026-11-23): la ficha de cada video lleva `02_prompt/perfil_emocional.md`: por
+  cada elemento (contenido, colores, animaciones, efectos de luz, velocidad del video y del audio, voces, música,
+  efectos, texto, cierre, título) qué emoción se busca, con qué fundamento, cómo acerca al objetivo y con qué métrica
+  se verá. Lo escribe el director creativo (en infantil decide la psicóloga); `validar_prompt.py` lo exige lleno.
 - Color con intención: 2 neutros + 1 acento; por qué cada color y cómo ayuda al objetivo va en la dirección
   (sección 3b) y en `ficha.json`; se mide con `video-studio/herramientas/revisar_color.py` (`manual/13`).
 
